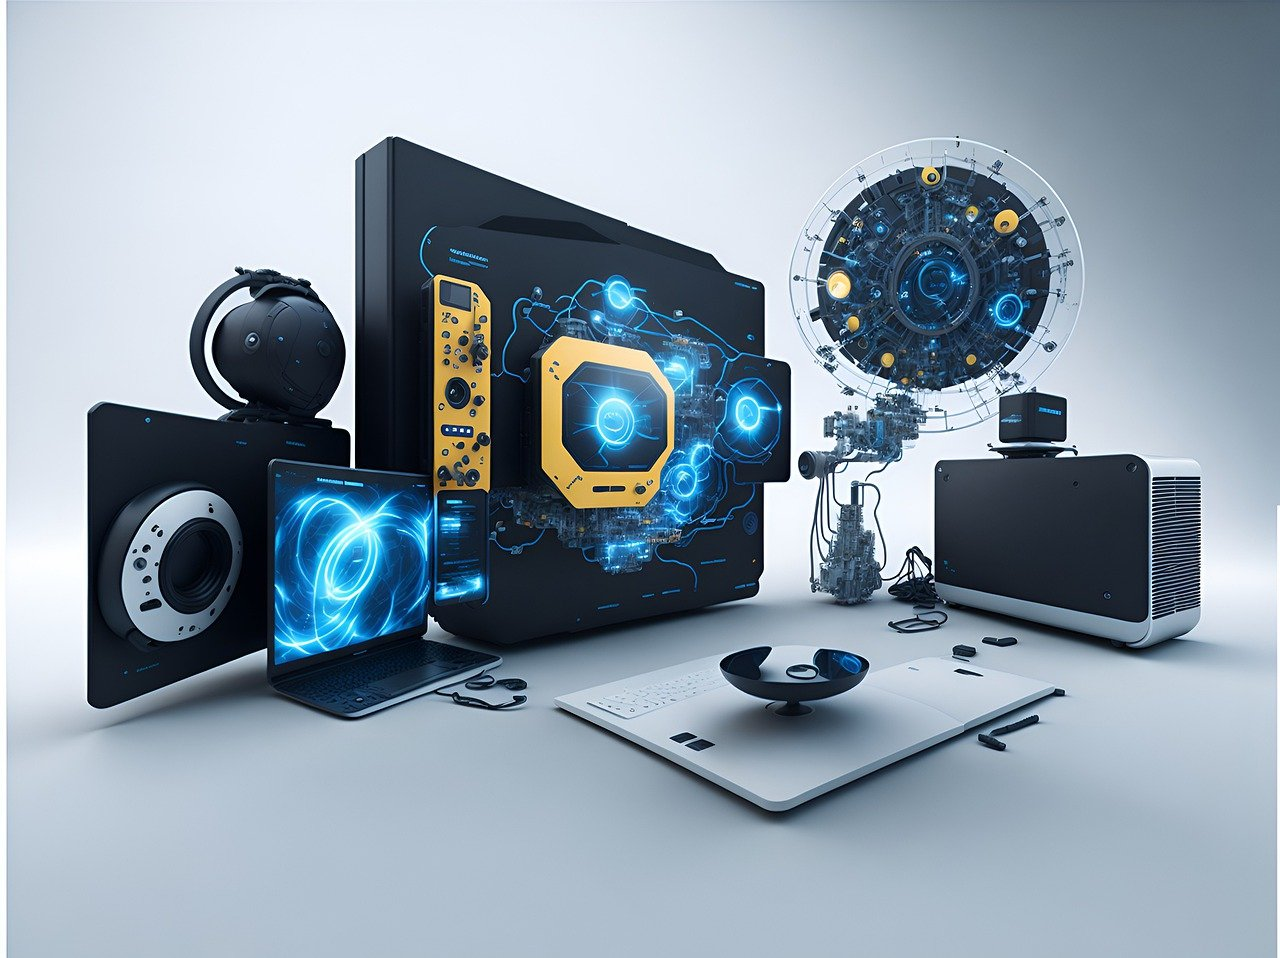
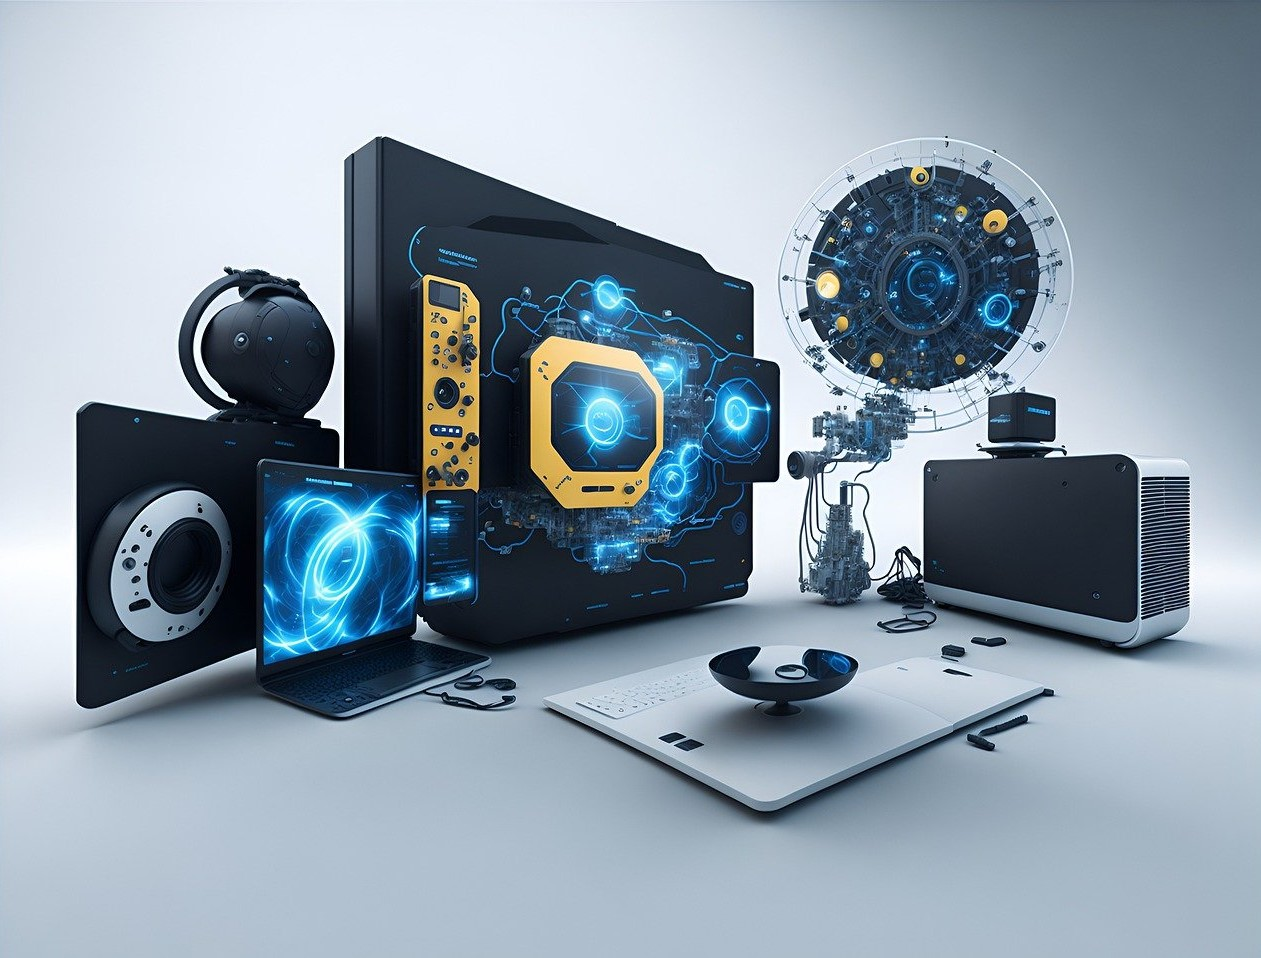
commit para probar movile

diff --git a/css/style.css b/css/style.css
@@ -228,6 +228,65 @@ margin-bottom: 5rem;
     display: grid;
     grid-template-columns: 1fr 1fr;
 }
+
+/*Form*/
+.mainContainerForm{
+    height: 100svh;
+    margin: 0;
+    background-image: url(/img/ai-generated-7962528_1280.jpg);
+    background-repeat: no-repeat;
+    background-size: cover;
+}
+
+.contact-form {
+    display: flex;
+    flex-direction: column;
+    align-items: center;
+    margin: 0 auto;
+    width: 80svw;
+    height: 80svh;
+    padding: 4rem;
+    background-color: #646a703c;
+    border-radius: 8px;
+    box-shadow: 0 4px 8px rgba(0, 0, 0, 0.1);
+    
+}
+
+.contact-form label {
+    color: #ffffff;
+    display: block;
+    margin-bottom: 2rem;
+    font-weight: bold;
+}
+
+.contact-form input,
+.contact-form textarea {
+    width: 100%;
+    padding: 8px;
+    margin-bottom: 15px;
+    border: 1px solid #ddd;
+    border-radius: 4px;
+}
+
+.contact-form input::placeholder,
+.contact-form textarea::placeholder {
+    color: #aaa;
+}
+
+.contact-form button {
+    width: 100%;
+    padding: 10px;
+    background-color: #4CAF50;
+    color: white;
+    border: none;
+    border-radius: 4px;
+    font-size: 16px;
+    cursor: pointer;
+}
+
+.contact-form button:hover {
+    background-color: #45a049;
+}
 /*seccion del footer*/
 .footer {
     position: fixed;
@@ -259,7 +318,7 @@ margin-bottom: 5rem;
 
 @media (max-width: 768px) {
     .text-end {
-        font-size: 0.6rem;
+        font-size: 0.5rem;
     }
 
     .nav-link:hover {
@@ -271,7 +330,7 @@ margin-bottom: 5rem;
         max-width: min-content;
     }
 
-    .mainContainer {
+    .mainContainer{
         font-size: 0.8rem;
         position: absolute;
     }
@@ -333,7 +392,7 @@ margin-bottom: 5rem;
     }
 }
 
-@media (max-width: 430px) {
+@media (max-width: 450px) {
     .mainSection {
         padding: 1rem;
         color: #ffffff;
@@ -345,7 +404,12 @@ margin-bottom: 5rem;
 
     .footer {
         margin-top: 0;
-
+    }
+    .footer .col-md-6 p.text-end {
+        font-size: 0.5rem; 
+    }
+    .cacLogo{
+        max-width: 50dvw;
     }
 
 }

diff --git a/css/form.css b/css/form.css
@@ -1,4 +1,5 @@
 .mainContainerForm{
+    height: 100svh;
     margin: 0;
     background-image: url(/img/ai-generated-7962528_1280.jpg);
     background-repeat: no-repeat;
@@ -9,7 +10,8 @@
     display: flex;
     flex-direction: column;
     margin: 0 auto;
-    width: 300px;
+    width: 80svw;
+    height: 80svh;
     padding: 20px;
     background-color: #646a703c;
     border-radius: 8px;
@@ -59,4 +61,47 @@
         height: 100dvh;
     }
     
+}
+@media (max-width: 768px) {
+    .text-end {
+        font-size: 0.5rem;
+    }
+
+    .nav-link:hover {
+        transform: scale(0.9);
+        transition: 0.5s ease-in-out;
+        color: rgb(255, 255, 255);
+        box-shadow: 0 3px 6px rgba(255, 255, 255, 0.699),
+            0 6px 20px rgba(212, 204, 204, 0.315);
+        max-width: min-content;
+    }
+
+    .mainContainerForm{
+        width: 100dvw;
+        font-size: 0.8rem;
+        position: absolute;
+    }
+
+    .footer {
+        position: fixed;
+        bottom: 0;
+        width: 100%;
+        display: grid;
+        grid-template-columns: 1fr auto;
+        background-color: rgba(32, 36, 36, 0.546);
+    }
+
+    .navbar-collapse {
+        position: fixed;
+        backdrop-filter: blur(5px);
+        margin-top: 24rem;
+        width: 100%;
+        background-color: rgba(169, 59, 59, 0.522);
+        padding: 2rem;
+        box-shadow: 0 3px 6px rgba(255, 255, 255, 0.699),
+            0 6px 20px rgba(212, 204, 204, 0.315);
+        color: #fff;
+
+    }
+
 }

diff --git a/form/form.html b/form/form.html
@@ -9,15 +9,15 @@
 
     <link href="https://cdn.jsdelivr.net/npm/bootstrap@5.3.3/dist/css/bootstrap.min.css" rel="stylesheet"
         integrity="sha384-QWTKZyjpPEjISv5WaRU9OFeRpok6YctnYmDr5pNlyT2bRjXh0JMhjY6hW+ALEwIH" crossorigin="anonymous">
-
-    <link rel="stylesheet" href="/css/form.css">
     <link rel="stylesheet" href="/css/style.css">
+
+
 
     <title>Tech Soluciones</title>
 </head>
 
 <body>
-    <div class="mainContainerForm">
+    <div >
         <header>
             <nav class="navbar navbar-expand-lg bg-primary" data-bs-theme="dark">
 
@@ -55,14 +55,13 @@
                     </div>
                 </div>
             </nav>
-
-            
         </header>
-        <main>
-            <h1>Contacto</h1>
+        <main class="mainContainerForm">
+            
             <form action="https://formspree.io/f/meoqkrld" method="POST" class="contact-form">
+                <h1>Contacto</h1>
                 <label for="nombre">Nombre:</label>
-              <input type="text" id="nombre" name="nombre" placeholder="Escribe tu nombre" required>
+                <input type="text" id="nombre" name="nombre" placeholder="Escribe tu nombre" required>
 
                 <label for="apellido">Apellido:</label>
                 <input type="text" id="apellido" name="apellido" placeholder="Escribe tu apellido" required>

diff --git a/index.html b/index.html
@@ -52,7 +52,7 @@
                             <a class="nav-link" href="./pages/services.html">Servicios</a>
                         </li>
                         <li class="nav-item">
-                            <a class="nav-link" href="#">Contacto</a>
+                            <a class="nav-link" href="/form/form.html">Contacto</a>
                         </li>
                         <li class="nav-item dropdown">
                             <a class="nav-link dropdown-toggle" href="#" role="button" data-bs-toggle="dropdown"
